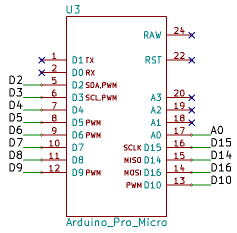
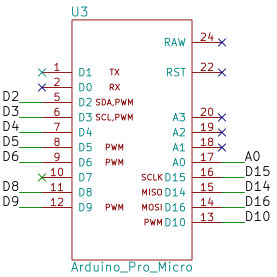
Updated to latest schematics.

Changed region(s): [[0.0, 0.0, 0.9747, 0.9914]]

diff --git a/index.html b/index.html
@@ -80,7 +80,7 @@
 			<h3>The Complete Controller Board</h3>
 			<div class="row">
 				<div class="col-md-6">
-					<a href="images/board-controller.png"><img src="images/board-controller.small.png" alt="UV Box Board - Controller" /></a>
+					<a href="images/board-controller-f_silks.png"><img src="images/board-controller-f_silks.small.png" alt="UV Box Board - Controller" /></a>
 				</div>
 				<div class="col-md-6">
 					<a href="images/board-controller-cu.png"><img src="images/board-controller-cu.small.png" alt="UV Box Board - Controller 3D" /></a></p>
